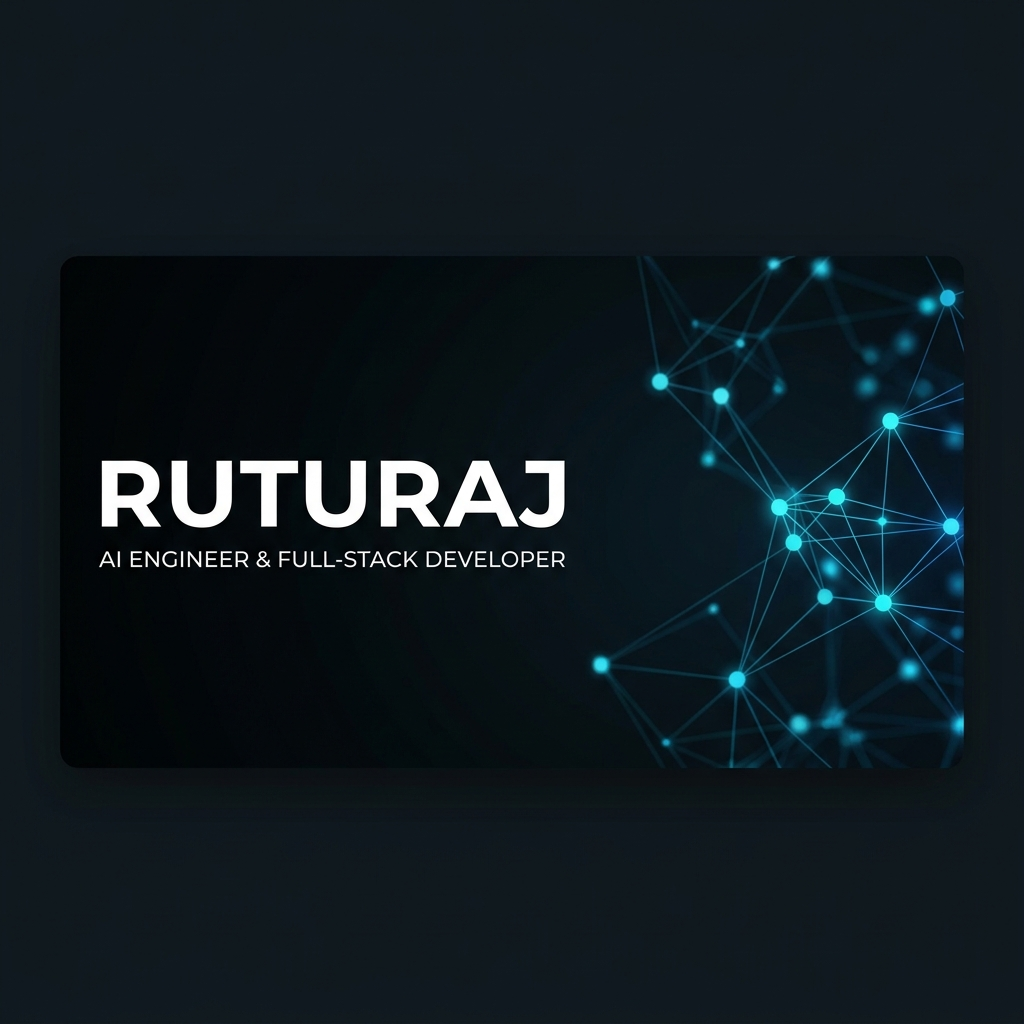
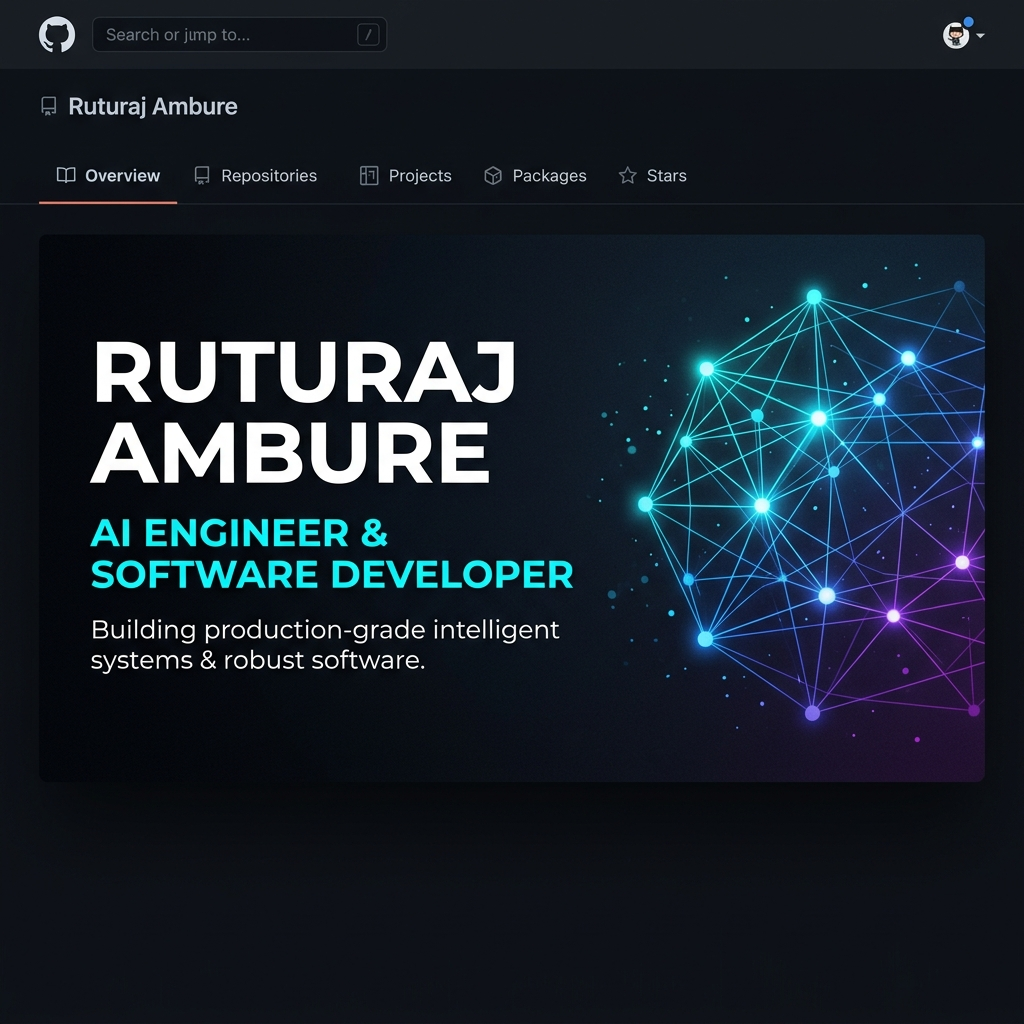
2nd update

diff --git a/README.md b/README.md
@@ -2,26 +2,31 @@
 
 <div align="center">
   <!-- Hero Banner -->
-  <img src="assets/hero-banner.png" width="100%" alt="RUTURAJ | AI Engineer & Full-Stack Developer Banner" style="border-radius: 8px;" />
+  <img src="assets/hero-banner.png" width="100%" alt="RUTURAJ AMBURE | AI Engineer & Software Developer" style="border-radius: 8px;" />
   
+  <br /><br />
+  
+  <!-- Typing Animation -->
+  <img src="assets/typing.svg" width="600" alt="Dynamic Status Tagline" />
+
   <br />
-  
-  <!-- Typing Animation Badge -->
-  <img src="assets/typing.svg" width="600" alt="Dynamic Status" />
 
   <p align="center">
-    <a href="https://linkedin.com" target="_blank">
+    <a href="https://linkedin.com/in/ruturaj-ambure" target="_blank">
       <img src="https://img.shields.io/badge/LinkedIn-0A66C2?style=for-the-badge&logo=linkedin&logoColor=white&labelColor=0d1117" alt="LinkedIn" />
     </a>
     &nbsp;
-    <a href="mailto:ruturaj@example.com" target="_blank">
-      <img src="https://img.shields.io/badge/Email-D14836?style=for-the-badge&logo=gmail&logoColor=white&labelColor=0d1117" alt="Email" />
+    <a href="mailto:ruturajambure@gmail.com" target="_blank">
+      <img src="https://img.shields.io/badge/Gmail-D14836?style=for-the-badge&logo=gmail&logoColor=white&labelColor=0d1117" alt="Gmail" />
     </a>
     &nbsp;
     <a href="https://github.com/Ruturaj24062006" target="_blank">
-      <img src="https://img.shields.io/badge/Portfolio-000000?style=for-the-badge&logo=github&logoColor=white&labelColor=0d1117" alt="Portfolio" />
+      <img src="https://img.shields.io/badge/GitHub-181717?style=for-the-badge&logo=github&logoColor=white&labelColor=0d1117" alt="GitHub" />
     </a>
   </p>
+
+  <!-- Visitor Counter -->
+  <img src="https://komarev.com/ghpvc/?username=Ruturaj24062006&color=38bdf8&style=flat-square&label=PROFILE+VIEWS" alt="Profile Views Counter" />
 </div>
 
 <div align="center">
@@ -34,40 +39,34 @@
   <summary><b>$ whoami</b></summary>
   <br />
   <blockquote>
-    I am an <b>AI Engineer and Full-Stack Developer</b> focused on building robust, production-ready systems. I bridge the gap between machine learning capabilities and scalable web engineering, crafting tools that solve real problems.
+    I am an <b>AI &amp; Data Science undergraduate at Vishwakarma Institute of Technology, Pune</b> (CGPA: 8.67/10). My focus is on building secure, production-grade applications, combining applied machine learning research with robust software engineering architecture. I specialize in designing scalable systems, from AI-driven classifiers to highly optimized full-stack web platforms.
   </blockquote>
 </details>
 
 <details>
-  <summary><b>$ cat capabilities.json</b></summary>
+  <summary><b>$ cat credentials.json</b></summary>
   <pre lang="json">
 {
-  "core_focus": [
-    "Artificial Intelligence", 
-    "Large Language Model Orchestration", 
-    "Scalable Web Systems"
+  "education": "B.Tech in Artificial Intelligence and Data Science (2024 - 2028)",
+  "patents": [
+    "Published 2 Patents with the Indian Patent Office (Web Applications &amp; GenAI Incident Management)"
   ],
-  "engineering_standards": [
-    "Clean Code", 
-    "Test-Driven Development", 
-    "Modular Microservices Architecture"
+  "certifications": [
+    "C-DAC Pune AI Bootcamp (FutureSkills PRIME - MeitY &amp; NASSCOM initiative)"
   ],
-  "platforms": [
-    "Node.js / React (Vite)", 
-    "Python / FastAPI / Django", 
-    "Docker / AWS / Nginx"
-  ]
+  "problem_solving": "250+ Data Structures &amp; Algorithms challenges solved on LeetCode &amp; Coding Ninjas"
 }
   </pre>
 </details>
 
 <details>
-  <summary><b>$ docker ps --active</b></summary>
+  <summary><b>$ docker ps --all-deployments</b></summary>
   <pre>
-CONTAINER ID   IMAGE                           STATUS          PORTS                  NAMES
-a42d8fa8e9c0   railway-evaluation-system:1.0   Up 12 hours     0.0.0.0:8080->80/tcp   safety-dashboard
-c8f2b1d3d5f6   stego-vault-cryptography:2.1    Up 3 days       0.0.0.0:3000->80/tcp   steganography-vault
-ef34d5c6b7a8   agent-orchestration-engine:0.5  Up 45 minutes   0.0.0.0:8000->80/tcp   agentic-workflows
+CONTAINER ID   IMAGE                          STATUS          PORTS                  NAMES
+e3f28d8b9f0a   railway-evaluation-system:2.0  Up 15 hours     0.0.0.0:8080->80/tcp   railway-dashboard
+c4a2b1d3d5f6   secure-incident-tracker:1.1    Up 5 days       0.0.0.0:5000->80/tcp   incident-tracker
+d7f1d5c6b7a8   tumor-verse-detection:1.0      Up 3 days       0.0.0.0:8000->80/tcp   cancer-simulation
+ef83c6b9d0e2   stegovault-app:1.2             Up 4 hours      0.0.0.0:3000->80/tcp   stegovault-service
   </pre>
 </details>
 
@@ -75,7 +74,51 @@ ef34d5c6b7a8   agent-orchestration-engine:0.5  Up 45 minutes   0.0.0.0:8000->80/
   <img src="assets/divider.svg" width="100%" alt="divider" />
 </div>
 
-## 🚀 Featured Products
+## 📈 Engineering Milestones & Achievements
+
+<table width="100%">
+  <tr>
+    <td width="33%" align="center" valign="top">
+      <h3>📜 2 Patents</h3>
+      <p>Published 2 patents through the <b>Indian Patent Office</b> focusing on <b>Web Applications</b> and <b>Generative AI-Based Incident Management</b> systems.</p>
+    </td>
+    <td width="33%" align="center" valign="top">
+      <h3>🎓 AI Bootcamp</h3>
+      <p>Successfully completed training in Advanced AI pipelines conducted by <b>C-DAC Pune</b> under the joint <b>MeitY &amp; NASSCOM</b> FutureSkills PRIME initiative.</p>
+    </td>
+    <td width="33%" align="center" valign="top">
+      <h3>🏆 250+ DSA Solved</h3>
+      <p>Solved over <b>250+ Data Structures and Algorithms</b> coding challenges across LeetCode &amp; Coding Ninjas, establishing a strong problem-solving core.</p>
+    </td>
+  </tr>
+</table>
+
+<div align="center">
+  <img src="assets/divider.svg" width="100%" alt="divider" />
+</div>
+
+## 💼 Industry-Sponsored Experience
+
+```
+│
+├── 🚂 April 2026 – June 2026 ── Indian Railways (Nagpur Division)
+│   └── Sponsored Project Developer: Railway Evaluation & Inspection Management System
+│       ├── Architected a centralized operational inspection platform to evaluate activities across multiple stations.
+│       ├── Designed clean role-based workflows, safety counseling tracking, and performance audit dashboards.
+│       └── Engineered a robust database layout with automated report generation to maximize operational transparency.
+│
+└── 🔒 Aug 2025 – Nov 2025 ── Cravita Technologies India Pvt. Ltd.
+    └── Sponsored Project Developer: Secure Incident Tracker using Generative AI
+        ├── Built a secure, automated incident reporting and tracking engine with real-time critical email alerts.
+        ├── Integrated LLM-based incident classification and analytical summaries using state-of-the-art GenAI models.
+        └── Enhanced incident response velocity and system-wide tracking resolution workflows.
+```
+
+<div align="center">
+  <img src="assets/divider.svg" width="100%" alt="divider" />
+</div>
+
+## 🚀 Key Software Systems
 
 <table width="100%">
   <tr>
@@ -83,66 +126,51 @@ ef34d5c6b7a8   agent-orchestration-engine:0.5  Up 45 minutes   0.0.0.0:8000->80/
       <div align="right">
         <img src="assets/project-badges/production.svg" height="20" alt="Production Badge" />
       </div>
-      <h4>🚂 Railway Evaluation System</h4>
-      <p>An enterprise-grade analysis and evaluation software built for railway systems, generating real-time safety computations, visual charts, and automated compliance documents.</p>
+      <h4>🧬 TumorVerse - Virtual Cancer Simulation</h4>
+      <p><b>Problem:</b> Inefficient workflows for manual cancer region screening in digital pathology images.</p>
+      <p><b>Solution:</b> Developed an end-to-end deep learning framework that automates classification using ResNet50 and handles high-precision tumor segmentation via U-Net structures.</p>
       <p>
-        <img src="https://img.shields.io/badge/React-38bdf8?style=flat-square&logo=react&logoColor=090a0f&labelColor=161b22" alt="React" />
-        <img src="https://img.shields.io/badge/Express-2dd4bf?style=flat-square&logo=express&logoColor=090a0f&labelColor=161b22" alt="Express" />
-        <img src="https://img.shields.io/badge/Postgres-a855f7?style=flat-square&logo=postgresql&logoColor=ffffff&labelColor=161b22" alt="PostgreSQL" />
+        <img src="https://img.shields.io/badge/Python-38bdf8?style=flat-square&logo=python&logoColor=090a0f&labelColor=161b22" alt="Python" />
+        <img src="https://img.shields.io/badge/PyTorch-2dd4bf?style=flat-square&logo=pytorch&logoColor=ffffff&labelColor=161b22" alt="PyTorch" />
+        <img src="https://img.shields.io/badge/XGBoost-a855f7?style=flat-square&logo=scikitlearn&logoColor=ffffff&labelColor=161b22" alt="XGBoost" />
       </p>
-      <br />
-      <a href="https://github.com/Ruturaj24062006/Railway_Evaluation_System_Final" target="_blank">
-        <img src="https://img.shields.io/badge/Code-0284c7?style=for-the-badge&logo=github&logoColor=white" alt="View Code" />
+      <a href="https://github.com/Ruturaj24062006/TumorVerse" target="_blank">
+        <img src="https://img.shields.io/badge/Repository-0284c7?style=for-the-badge&logo=github&logoColor=white" alt="Repo Code" />
       </a>
     </td>
     <td width="50%" valign="top">
       <div align="right">
         <img src="assets/project-badges/stable.svg" height="20" alt="Stable Badge" />
       </div>
-      <h4>🔒 Stego-Vault</h4>
-      <p>A secure cryptography application combining traditional AES-256 encryption with digital image steganography to hide and transmit secret keys inside image pixel arrays.</p>
+      <h4>🔒 StegoVault - Secure Data Hiding</h4>
+      <p><b>Problem:</b> High vulnerability of raw encrypted keys to interception in modern cloud file storage.</p>
+      <p><b>Solution:</b> Engineered a secure digital steganography vault that conceals sensitive payloads within image matrix layers using clean OOP structures and provides an interactive web console for embedding and extraction.</p>
       <p>
         <img src="https://img.shields.io/badge/Python-38bdf8?style=flat-square&logo=python&logoColor=090a0f&labelColor=161b22" alt="Python" />
-        <img src="https://img.shields.io/badge/OpenCV-2dd4bf?style=flat-square&logo=opencv&logoColor=090a0f&labelColor=161b22" alt="OpenCV" />
-        <img src="https://img.shields.io/badge/React-a855f7?style=flat-square&logo=react&logoColor=090a0f&labelColor=161b22" alt="React" />
+        <img src="https://img.shields.io/badge/React.js-2dd4bf?style=flat-square&logo=react&logoColor=090a0f&labelColor=161b22" alt="React" />
+        <img src="https://img.shields.io/badge/OpenCV-a855f7?style=flat-square&logo=opencv&logoColor=ffffff&labelColor=161b22" alt="OpenCV" />
       </p>
-      <br />
-      <a href="#" target="_blank">
-        <img src="https://img.shields.io/badge/Code-0284c7?style=for-the-badge&logo=github&logoColor=white" alt="View Code" />
+      <a href="https://github.com/Ruturaj24062006/StegoVault" target="_blank">
+        <img src="https://img.shields.io/badge/Repository-0284c7?style=for-the-badge&logo=github&logoColor=white" alt="Repo Code" />
       </a>
     </td>
   </tr>
   <tr>
-    <td width="50%" valign="top">
-      <div align="right">
-        <img src="assets/project-badges/active-dev.svg" height="20" alt="Active Dev Badge" />
-      </div>
-      <h4>🧠 Agentic Orchestration Engine</h4>
-      <p>An asynchronous orchestration framework for LLM agents. Features dynamic task execution branching, structured tool bindings, and vector-backed state stores.</p>
-      <p>
-        <img src="https://img.shields.io/badge/FastAPI-38bdf8?style=flat-square&logo=fastapi&logoColor=090a0f&labelColor=161b22" alt="FastAPI" />
-        <img src="https://img.shields.io/badge/LangChain-2dd4bf?style=flat-square&logo=chainlink&logoColor=090a0f&labelColor=161b22" alt="LangChain" />
-        <img src="https://img.shields.io/badge/Redis-a855f7?style=flat-square&logo=redis&logoColor=ffffff&labelColor=161b22" alt="Redis" />
-      </p>
-      <br />
-      <a href="#" target="_blank">
-        <img src="https://img.shields.io/badge/Code-0284c7?style=for-the-badge&logo=github&logoColor=white" alt="View Code" />
-      </a>
-    </td>
-    <td width="50%" valign="top">
+    <td width="50%" valign="top" colspan="2">
       <div align="right">
         <img src="assets/project-badges/stable.svg" height="20" alt="Stable Badge" />
       </div>
-      <h4>📈 DocuChat AI</h4>
-      <p>A conversational retrieval system for scanning and querying large PDF libraries using semantic similarity, RAG (Retrieval-Augmented Generation), and contextual summarization.</p>
+      <h4>💳 KARTA - AI Credit Appraisal Platform</h4>
+      <p><b>Problem:</b> Lengthy manual verification of multilingual loan documents and high risk of corporate borrower fraud.</p>
+      <p><b>Solution:</b> Architected a secure appraisal system featuring 6 automated modules, integrating multilingual text extraction via PaddleOCR and explainable risk analysis across 40+ dynamic financial data sources via XGBoost.</p>
       <p>
-        <img src="https://img.shields.io/badge/PyTorch-38bdf8?style=flat-square&logo=pytorch&logoColor=ffffff&labelColor=161b22" alt="PyTorch" />
-        <img src="https://img.shields.io/badge/ChromaDB-2dd4bf?style=flat-square&logo=gitbook&logoColor=090a0f&labelColor=161b22" alt="ChromaDB" />
-        <img src="https://img.shields.io/badge/Python-a855f7?style=flat-square&logo=python&logoColor=090a0f&labelColor=161b22" alt="Python" />
+        <img src="https://img.shields.io/badge/FastAPI-38bdf8?style=flat-square&logo=fastapi&logoColor=090a0f&labelColor=161b22" alt="FastAPI" />
+        <img src="https://img.shields.io/badge/PostgreSQL-2dd4bf?style=flat-square&logo=postgresql&logoColor=ffffff&labelColor=161b22" alt="PostgreSQL" />
+        <img src="https://img.shields.io/badge/XGBoost-a855f7?style=flat-square&logo=scikitlearn&logoColor=ffffff&labelColor=161b22" alt="XGBoost" />
+        <img src="https://img.shields.io/badge/PaddleOCR-38bdf8?style=flat-square&logo=gitbook&logoColor=090a0f&labelColor=161b22" alt="PaddleOCR" />
       </p>
-      <br />
-      <a href="#" target="_blank">
-        <img src="https://img.shields.io/badge/Code-0284c7?style=for-the-badge&logo=github&logoColor=white" alt="View Code" />
+      <a href="https://github.com/Ruturaj24062006/KARTA" target="_blank">
+        <img src="https://img.shields.io/badge/Repository-0284c7?style=for-the-badge&logo=github&logoColor=white" alt="Repo Code" />
       </a>
     </td>
   </tr>
@@ -161,49 +189,45 @@ ef34d5c6b7a8   agent-orchestration-engine:0.5  Up 45 minutes   0.0.0.0:8000->80/
       <img src="https://img.shields.io/badge/Python-38bdf8?style=flat-square&logo=python&logoColor=090a0f&labelColor=161b22" alt="Python" />
       <img src="https://img.shields.io/badge/JavaScript-2dd4bf?style=flat-square&logo=javascript&logoColor=090a0f&labelColor=161b22" alt="JavaScript" />
       <img src="https://img.shields.io/badge/TypeScript-a855f7?style=flat-square&logo=typescript&logoColor=ffffff&labelColor=161b22" alt="TypeScript" />
-      <img src="https://img.shields.io/badge/C++-38bdf8?style=flat-square&logo=c%2B%2B&logoColor=ffffff&labelColor=161b22" alt="C++" />
+      <img src="https://img.shields.io/badge/C%2F%2B%2B-38bdf8?style=flat-square&logo=c%2B%2B&logoColor=ffffff&labelColor=161b22" alt="C++" />
       <img src="https://img.shields.io/badge/SQL-2dd4bf?style=flat-square&logo=sqlite&logoColor=ffffff&labelColor=161b22" alt="SQL" />
     </td>
   </tr>
   <tr>
-    <td><b>AI & Machine Learning</b></td>
+    <td><b>AI / Deep Learning</b></td>
     <td>
       <img src="https://img.shields.io/badge/PyTorch-38bdf8?style=flat-square&logo=pytorch&logoColor=ffffff&labelColor=161b22" alt="PyTorch" />
-      <img src="https://img.shields.io/badge/OpenCV-2dd4bf?style=flat-square&logo=opencv&logoColor=090a0f&labelColor=161b22" alt="OpenCV" />
-      <img src="https://img.shields.io/badge/FastAPI-a855f7?style=flat-square&logo=fastapi&logoColor=090a0f&labelColor=161b22" alt="FastAPI" />
-      <img src="https://img.shields.io/badge/LangChain-38bdf8?style=flat-square&logo=chainlink&logoColor=090a0f&labelColor=161b22" alt="LangChain" />
-      <img src="https://img.shields.io/badge/HuggingFace-2dd4bf?style=flat-square&logo=huggingface&logoColor=090a0f&labelColor=161b22" alt="Hugging Face" />
+      <img src="https://img.shields.io/badge/XGBoost-2dd4bf?style=flat-square&logo=scikitlearn&logoColor=ffffff&labelColor=161b22" alt="XGBoost" />
+      <img src="https://img.shields.io/badge/U--Net-a855f7?style=flat-square&logo=deepnote&logoColor=ffffff&labelColor=161b22" alt="U-Net" />
+      <img src="https://img.shields.io/badge/CNN-38bdf8?style=flat-square&logo=googlebrain&logoColor=ffffff&labelColor=161b22" alt="CNN" />
+      <img src="https://img.shields.io/badge/PaddleOCR-2dd4bf?style=flat-square&logo=gitbook&logoColor=ffffff&labelColor=161b22" alt="PaddleOCR" />
     </td>
   </tr>
   <tr>
-    <td><b>Web Frameworks</b></td>
+    <td><b>Web & APIs</b></td>
     <td>
-      <img src="https://img.shields.io/badge/React-38bdf8?style=flat-square&logo=react&logoColor=090a0f&labelColor=161b22" alt="React" />
-      <img src="https://img.shields.io/badge/Next.js-2dd4bf?style=flat-square&logo=nextdotjs&logoColor=ffffff&labelColor=161b22" alt="Next.js" />
-      <img src="https://img.shields.io/badge/Node.js-a855f7?style=flat-square&logo=nodedotjs&logoColor=ffffff&labelColor=161b22" alt="Node.js" />
-      <img src="https://img.shields.io/badge/Express-38bdf8?style=flat-square&logo=express&logoColor=ffffff&labelColor=161b22" alt="Express" />
-      <img src="https://img.shields.io/badge/Django-2dd4bf?style=flat-square&logo=django&logoColor=ffffff&labelColor=161b22" alt="Django" />
-      <img src="https://img.shields.io/badge/TailwindCSS-a855f7?style=flat-square&logo=tailwindcss&logoColor=ffffff&labelColor=161b22" alt="Tailwind CSS" />
+      <img src="https://img.shields.io/badge/React.js-38bdf8?style=flat-square&logo=react&logoColor=090a0f&labelColor=161b22" alt="React.js" />
+      <img src="https://img.shields.io/badge/Node.js-2dd4bf?style=flat-square&logo=nodedotjs&logoColor=ffffff&labelColor=161b22" alt="Node.js" />
+      <img src="https://img.shields.io/badge/Express-a855f7?style=flat-square&logo=express&logoColor=ffffff&labelColor=161b22" alt="Express" />
+      <img src="https://img.shields.io/badge/FastAPI-38bdf8?style=flat-square&logo=fastapi&logoColor=090a0f&labelColor=161b22" alt="FastAPI" />
+      <img src="https://img.shields.io/badge/RESTful_APIs-2dd4bf?style=flat-square&logo=insomnia&logoColor=ffffff&labelColor=161b22" alt="RESTful APIs" />
     </td>
   </tr>
   <tr>
-    <td><b>Databases & Cache</b></td>
+    <td><b>Databases</b></td>
     <td>
       <img src="https://img.shields.io/badge/PostgreSQL-38bdf8?style=flat-square&logo=postgresql&logoColor=ffffff&labelColor=161b22" alt="PostgreSQL" />
-      <img src="https://img.shields.io/badge/MongoDB-2dd4bf?style=flat-square&logo=mongodb&logoColor=090a0f&labelColor=161b22" alt="MongoDB" />
-      <img src="https://img.shields.io/badge/Redis-a855f7?style=flat-square&logo=redis&logoColor=ffffff&labelColor=161b22" alt="Redis" />
-      <img src="https://img.shields.io/badge/ChromaDB-38bdf8?style=flat-square&logo=gitbook&logoColor=ffffff&labelColor=161b22" alt="ChromaDB" />
+      <img src="https://img.shields.io/badge/MySQL-2dd4bf?style=flat-square&logo=mysql&logoColor=ffffff&labelColor=161b22" alt="MySQL" />
     </td>
   </tr>
   <tr>
-    <td><b>DevOps & Cloud</b></td>
+    <td><b>Dev Tools & Core</b></td>
     <td>
-      <img src="https://img.shields.io/badge/Docker-38bdf8?style=flat-square&logo=docker&logoColor=ffffff&labelColor=161b22" alt="Docker" />
-      <img src="https://img.shields.io/badge/Git-2dd4bf?style=flat-square&logo=git&logoColor=ffffff&labelColor=161b22" alt="Git" />
-      <img src="https://img.shields.io/badge/GitHub_Actions-a855f7?style=flat-square&logo=githubactions&logoColor=ffffff&labelColor=161b22" alt="GitHub Actions" />
-      <img src="https://img.shields.io/badge/AWS-38bdf8?style=flat-square&logo=amazonwebservices&logoColor=ffffff&labelColor=161b22" alt="AWS" />
-      <img src="https://img.shields.io/badge/Nginx-2dd4bf?style=flat-square&logo=nginx&logoColor=ffffff&labelColor=161b22" alt="Nginx" />
-      <img src="https://img.shields.io/badge/Linux-a855f7?style=flat-square&logo=linux&logoColor=ffffff&labelColor=161b22" alt="Linux" />
+      <img src="https://img.shields.io/badge/Git-38bdf8?style=flat-square&logo=git&logoColor=ffffff&labelColor=161b22" alt="Git" />
+      <img src="https://img.shields.io/badge/GitHub-2dd4bf?style=flat-square&logo=github&logoColor=ffffff&labelColor=161b22" alt="GitHub" />
+      <img src="https://img.shields.io/badge/VS_Code-a855f7?style=flat-square&logo=visualstudiocode&logoColor=ffffff&labelColor=161b22" alt="VS Code" />
+      <img src="https://img.shields.io/badge/DSA-38bdf8?style=flat-square&logo=codeforces&logoColor=ffffff&labelColor=161b22" alt="DSA" />
+      <img src="https://img.shields.io/badge/OOP-2dd4bf?style=flat-square&logo=cplusplus&logoColor=ffffff&labelColor=161b22" alt="OOP" />
     </td>
   </tr>
 </table>
@@ -212,16 +236,16 @@ ef34d5c6b7a8   agent-orchestration-engine:0.5  Up 45 minutes   0.0.0.0:8000->80/
   <img src="assets/divider.svg" width="100%" alt="divider" />
 </div>
 
-## 📈 Activity & Statistics
+## 📊 Performance Analytics & GitHub Metrics
 
 <div align="center">
   <table border="0">
     <tr>
       <td align="center" valign="middle">
-        <img src="https://github-readme-stats.vercel.app/api?username=Ruturaj24062006&show_icons=true&theme=tokyonight&bg_color=0d1117&title_color=38bdf8&text_color=c9d1d9&icon_color=818cf8&border_color=30363d&hide_border=true" alt="Ruturaj's Stats" />
+        <img src="https://github-readme-stats.vercel.app/api?username=Ruturaj24062006&show_icons=true&theme=tokyonight&bg_color=0d1117&title_color=38bdf8&text_color=c9d1d9&icon_color=818cf8&border_color=30363d&hide_border=true" alt="Ruturaj Ambure's GitHub Stats" />
       </td>
       <td align="center" valign="middle">
-        <img src="https://github-readme-stats.vercel.app/api/top-langs/?username=Ruturaj24062006&layout=compact&theme=tokyonight&bg_color=0d1117&title_color=38bdf8&text_color=c9d1d9&border_color=30363d&hide_border=true" alt="Ruturaj's Top Languages" />
+        <img src="https://github-readme-stats.vercel.app/api/top-langs/?username=Ruturaj24062006&layout=compact&theme=tokyonight&bg_color=0d1117&title_color=38bdf8&text_color=c9d1d9&border_color=30363d&hide_border=true" alt="Ruturaj Ambure's Top Languages" />
       </td>
     </tr>
   </table>
@@ -232,34 +256,15 @@ ef34d5c6b7a8   agent-orchestration-engine:0.5  Up 45 minutes   0.0.0.0:8000->80/
   
   <br /><br />
   
-  <!-- Contribution Snake Game -->
-  <h4>👾 Interactive Contribution Journey</h4>
-  <img src="https://raw.githubusercontent.com/Ruturaj24062006/Ruturaj24062006/output/github-contribution-grid-snake-dark.svg" alt="GitHub Contribution Snake" width="100%" />
+  <!-- Animated contribution snake -->
+  <h4>👾 Dynamic Contribution Stream</h4>
+  <img src="https://raw.githubusercontent.com/Ruturaj24062006/Ruturaj24062006/output/github-contribution-grid-snake-dark.svg" alt="GitHub Contribution Snake Grid" width="100%" />
 </div>
 
 <div align="center">
   <img src="assets/divider.svg" width="100%" alt="divider" />
 </div>
 
-## 🗺 Timeline & Progress
-
-```
-│
-├── 📅 Present ── Lead Developer & AI Systems Integrator
-│   ├── Designing custom asynchronous LLM multi-agent pipelines
-│   └── Deploying Railway Evaluation dashboards for compliance metrics
-│
-├── 📅 2024 ── Cryptography & Security Explorations
-│   └── Published Stego-Vault, implementing secure multi-key hidden steganography
-│
-└── 📅 2023 ── Database and Core API Systems
-    └── Optimizing relational indexing and server routing structures
-```
-
 <div align="center">
-  <img src="assets/divider.svg" width="100%" alt="divider" />
-</div>
-
-<div align="center">
-  <sub>Designed with precision &bull; Built for performance &bull; Ruturaj &copy; 2026</sub>
+  <sub>Designed with precision &bull; Built for performance &bull; Ruturaj Ambure &copy; 2026</sub>
 </div>
